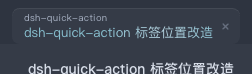
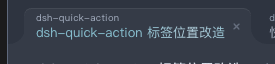
fix: flare active tab edges outward into the session header

diff --git a/lib/client.js b/lib/client.js
@@ -69,7 +69,7 @@ window.__ModuleLoader__.load({
 [data-composer-seat]{transition:opacity .24s ease}
 [data-composer-seat][data-qa-composer=hidden]{opacity:0!important;pointer-events:none!important}
 .qa-strip{box-sizing:border-box;display:flex;align-items:stretch;min-width:0;height:44px;padding:8px 0 0 0;position:relative}
-.qa-list{display:flex;flex:1 1 auto;min-width:0;gap:6px;padding:0 12px;overflow-x:auto;overscroll-behavior-x:contain;scrollbar-width:none}
+.qa-list{display:flex;flex:1 1 auto;min-width:0;gap:6px;padding:0 16px;overflow-x:auto;overscroll-behavior-x:contain;scrollbar-width:none}
 .qa-list::-webkit-scrollbar{display:none}
 .qa-spacer{flex:1;min-width:8px;-webkit-app-region:drag}
 .qa-fade{position:absolute;top:0;bottom:0;width:76px;pointer-events:none;opacity:0;transition:opacity .16s ease-out;z-index:2}
@@ -88,8 +88,17 @@ html[data-qa-hide-header] [data-slot=main] div:has(> header[data-window-drag]):h
 [data-qa-page] header[data-qa-header-surface]{background:var(--qa-surface);transition:background-color .18s ease-out}
 [data-qa-page][data-qa-hero] header[data-window-drag]{display:none!important}
 .qa-tab{box-sizing:border-box;position:relative;display:flex;align-items:stretch;flex:1 1 0;min-width:124px;max-width:260px;height:36px;border-radius:10px;color:var(--dsw-alias-label-secondary);background:transparent;transition:transform .18s cubic-bezier(.2,.8,.2,1),background-color .14s ease-out,border-radius .14s ease-out,color .14s ease-out;z-index:0}
-.qa-tab[data-active=true]{background:var(--qa-surface);box-shadow:inset 0 1px 0 rgba(255,255,255,.07);color:var(--dsw-alias-label-primary);z-index:1}
-.qa-tail{display:none!important}
+.qa-tab[data-active=true]{background:var(--qa-surface);box-shadow:inset 0 1px 0 rgba(255,255,255,.07);color:var(--dsw-alias-label-primary);z-index:1;border-radius:10px 10px 0 0}
+.qa-tail{position:absolute;bottom:0;width:16px;height:16px;pointer-events:none;display:none;z-index:0}
+.qa-tab[data-active=true]:not([data-dragging=true]) .qa-tail{display:block}
+.qa-tail-left{left:-15.5px}
+.qa-tail-right{right:-15.5px}
+.qa-tail svg{display:block;width:16px;height:16px;overflow:visible}
+.qa-tail-fill{fill:var(--qa-surface)}
+.qa-tail-line{display:none}
+[data-qa-page][data-qa-hero] .qa-tab[data-active=true],html[data-qa-hide-header] .qa-tab[data-active=true]{border-radius:10px}
+[data-qa-page][data-qa-hero] .qa-tab-main,html[data-qa-hide-header] .qa-tab-main{border-radius:10px}
+[data-qa-page][data-qa-hero] .qa-tail,html[data-qa-hide-header] .qa-tail{display:none!important}
 .qa-tab::after{display:none!important}
 /* 非当前标签 hover：内缩的圆角浅底，当前标签保持与页头同色 */
 .qa-tab[data-active=false]:not([data-dragging=true])::before{content:"";position:absolute;left:0;right:0;top:4px;bottom:4px;border-radius:9px;background:color-mix(in srgb,var(--dsw-alias-label-primary) 6%,transparent);opacity:0;transition:opacity .14s ease-out;pointer-events:none}
@@ -100,7 +109,7 @@ html[data-qa-hide-header] [data-slot=main] div:has(> header[data-window-drag]):h
 .qa-tab[data-dragging=true]{z-index:3;transition:none!important;background:color-mix(in srgb,var(--dsw-alias-label-primary) 8%,var(--qa-page));box-shadow:0 10px 26px rgba(0,0,0,.45),0 0 0 1px var(--qa-line)}
 .qa-tab[data-dragging=true] .qa-tab-main{cursor:grabbing}
 .qa-tab[data-dragging=true] .qa-close{display:none}
-.qa-tab-main{position:relative;display:flex;flex-direction:row;align-items:center;justify-content:flex-start;flex:1;min-width:0;padding:0 24px 0 12px;border:0;background:none;color:inherit;font:inherit;text-align:left;cursor:pointer;border-radius:10px}
+.qa-tab-main{position:relative;display:flex;flex-direction:row;align-items:center;justify-content:flex-start;flex:1;min-width:0;padding:0 24px 0 12px;border:0;background:none;color:inherit;font:inherit;text-align:left;cursor:pointer;border-radius:10px 10px 0 0}
 .qa-tab-main:focus-visible{outline:2px solid var(--dsw-alias-state-business-primary);outline-offset:-3px}
 @media (prefers-reduced-motion:reduce){.qa-tab{transition:none!important}.qa-title{animation:none!important;background:none!important;-webkit-text-fill-color:currentColor!important;opacity:1!important}.qa-tab[data-state=running] .qa-title,.qa-tab[data-state=loading] .qa-title{color:var(--qa-state)!important}.qa-tab[data-state=answer] .qa-title,.qa-tab[data-state=approval] .qa-title,.qa-tab[data-state=plan] .qa-title{color:var(--qa-text)!important}}
 .qa-sep{display:none}

diff --git a/AGENTS.md b/AGENTS.md
@@ -94,8 +94,8 @@ node tests/controller.test.mjs      # controller 单测，末尾打印 "controll
 - 提示文案不许写死键名（v0.2.18）：标签条 `listEl.title` 由 `hintText(words)` 用当前配置生成（`keyLabel(binding, mac)` 格式化；未绑定的命令整段省略；`⌘1–⌘9` 仅在 tab1/tab9 都存在且修饰键相同才折叠成范围），并订阅 `shortcuts.catalog.subscribe(refreshHint)`，在设置里改键后立即刷新。新增命令时提示片段加到 `hintText` 与 WORDS 的 `hint*` 字段，不要在 `WORDS.hint` 里写键名。
 - 工作区标题注意力入口（v0.2.45）：在 `[data-slot="sidebar.workspaces"]` 里找 `[class*="sectionHeader"]`，把铃铛按钮**绝对定位**挂到 sectionHeader 上、放在 `[class*="searchSlot"]` 左侧（`left = search.left - header.left - 30`，垂直居中）；**不要插进 headerActions**（它的 `max-width:60px` + overflow 会让第三个图标把原有 icon 挤重叠）。sectionHeader 若为 static 则补 `position:relative`；窗口 resize 时 `schedule()` 重新定位；**铃铛常显**（宽侧栏时一直显示，不因 0 待处理而消失）；按钮尺寸 28x28、与 host `.iconButton` 对齐（top 按 `(header.height-28)/2` 计算，垂直中心与搜索图标一致）；有需要处理时右上角显示 6px 红点（`.qa-attn-dot`，`--dsw-alias-state-error-primary`，带 1.5px 深色描边压边；定位 `top:2px; right:0`，是铃铛图形的右上角，不是按钮正上方——`top:4/right:4` 会看起来压在铃铛顶正中）；铃铛位置在搜索图标左侧、不占 headerActions 布局宽度（v0.2.48）；**注入到侧栏的组件不能使用 `.qa-host` 作用域的 `--qa-*` 变量**（不在该子树里，var() 会失效成透明/继承），hover 背景与颜色必须直接用宿主 token：`var(--dsw-alias-interactive-bg-hover)`、`var(--dsw-alias-label-tertiary)`→hover `label-primary`（v0.2.51）。**铃铛直接复用宿主图标按钮的 class**（`className = sampleButton.className + ' qa-attn'`，**每次 refresh 都补一次**：header 图标可能比插件晚挂载，首次创建时 sample 为空，之后必须再对齐，否则颜色停在继承的 tertiary、hover 时像多一层高亮 v0.2.54），只保留绝对定位与红点，颜色/hover/focus 全部由宿主样式决定——自己写 hover 会多出「图标变亮」的高亮（v0.2.53 定稿）。**不要自己加 `:focus-visible` 描边**：点击后按钮残留焦点会多出一圈高亮；鼠标点击后在 handler 里 `blur()`（`event.detail > 0`），保留键盘焦点态（v0.2.52）；**统计范围是全部会话（list.byId），不是仅标签条里的 rows**（避免只在侧栏存在的会话被漏算）；红点固定红色，分类明细放 title tooltip；宽模式（存在 `[class*="sectionLabel"]`）且 total>0 才显示，否则移除；点击 `ctrl.focusAttention()` 跳下一个。标题同时给出分类明细。
 - 保持唤醒（v0.2.35；v0.2.36 改位置）：**DOM 注入**太阳按钮到 `[data-slot="settings.launcher"]`（头像/设置按钮）之后、同一行内（与 `dsh-mobile-plugin` 相同做法，另加 `outlet.closest('[data-slot="sidebar.settings"]')` 校验；行宽 <120 时退回 `sidebar.footer.action` 行）；`ensureAwakeButton()` 在每次 `refresh()` 调用，React 移除后会被 MutationObserver 补回；按钮点击 `wakeToggle`，状态由 `wakeNotify` 同步 `data-on/title/aria-pressed`。快捷键，快捷键 `quick-action.keepAwake`（桌面 ⌘⇧K / Web ⌥⌘⇧K），实现用 **`navigator.wakeLock.request('screen')`**（不写系统配置；DSH 退出/页面隐藏自动释放）。状态：`wake.on`（已拿到 sentinel）/`wake.wanted`（用户希望开）——系统收回时 on=false 但 wanted 保持，`visibilitychange` 回到 visible 时自动重新申请；`pagehide`/dispose 调 `wakeDisable()`；`prefers-reduced-motion` 无关。调试入口 `window.__dshQuickAction.wake()`。**不要再往 flashNotice/其它函数里塞清理代码**（v0.2.35 期间误把 dispose 清理插进了 `flashNotice`/`toggleReadMode`，导致每次提示都把唤醒释放掉；已修）。
-- 标签过多提示（v0.2.42）：`.qa-list` 横向溢出时，`.qa-strip` 上挂 `data-more=right`，显示右侧 76px 渐隐层 `.qa-fade-right`（`linear-gradient(to right, transparent, var(--qa-strip) 72%)`，opacity 过渡），表示右边还有标签；`updateOverflowHint()` 在 render / listEl scroll / ResizeObserver 里更新；v0.2.43 起左右对称：`scrollLeft>1` 显示左渐隐、未到最右显示右渐隐，属性值 `left|right|both`，到两端时对应侧消失。渐隐层 pointer-events:none，不影响标签点击与 spacer 拖拽；**分割线必须画在渐隐层之上**（`.qa-strip::before{z-index:3}`，fade 是 2），否则右侧渐隐会把底部分割线一起吃掉（v0.2.44 修）。
-- 标签外观（v0.4.1 定稿，取代 v0.2.40 的 23px/尾巴/外框）：`.qa-tab` 高 36、`border-radius:10px`（四角都圆）；活动标签背景 `var(--qa-surface)`，页头通过 `[data-qa-header-surface]` 使用同一变量，底部两个圆角贴着标题行、不画线、无外框；非当前标签透明，hover 背景画在 `::before` 上（`left:0;right:0;top:4px;bottom:4px;border-radius:9px`）。`.qa-tail` 和 `.qa-tab::after` 已隐藏，不要恢复。
+- 标签过多提示（v0.2.42）：`.qa-list` 横向溢出时，`.qa-strip` 上挂 `data-more=right`，显示右侧 76px 渐隐层 `.qa-fade-right`（`linear-gradient(to right, transparent, var(--qa-strip) 72%)`，opacity 过渡），表示右边还有标签；`updateOverflowHint()` 在 render / listEl scroll / ResizeObserver 里更新；v0.2.43 起左右对称：`scrollLeft>1` 显示左渐隐、未到最右显示右渐隐，属性值 `left|right|both`，到两端时对应侧消失。渐隐层 pointer-events:none，不影响标签点击与 spacer 拖拽；标签条已不画横线，渐隐层直接铺满标签条高度。
+- 标签外观（v0.4.1 定稿）：`.qa-tab` 高 36、基础 `border-radius:10px`；活动标签覆盖为顶部 10px、底部 0，背景 `var(--qa-surface)`，页头通过 `[data-qa-header-surface]` 使用同一变量；底部用 `.qa-tail` 的 16px **向外翻**圆弧接入页头（`fill:var(--qa-surface)`、不画线、无外框）；首屏/隐藏 header 时活动标签收成四角 10px 卡片、隐藏尾巴。非当前标签透明，hover 背景画在 `::before` 上（`left:0;right:0;top:4px;bottom:4px;border-radius:9px`）。`.qa-tab::after` 隐藏，不要恢复 chip 间竖线。
 - 会话头部隐藏（v0.2.33；v0.2.39 动画）：切换时 240ms 过渡 `height/padding-top/padding-bottom/border-bottom-width/opacity`。要点：① header 是 border-box，只把 height 设 0 会被 padding 夹住（残留 17px），必须同时收 padding 与 border；② 起始态先 `transition:none` 写好并 `void offsetHeight` 强制 reflow，再挂 easing + rAF 改目标值，否则从 display:none 恢复时会跳变；③ minHeight 动画期间置 0；④ 动画结束收起用 `setHeaderInstant(true)`（元素 attr + html 标记，防切会话闪），展开则清空内联样式回到 CSS。
 - 会话头部隐藏（v0.2.33；v0.2.34 防闪+提示自动消失）：切换类提示统一走 `flashNotice(text, 2600ms)`，不要直接写 `noticeEl`（否则会一直挂着）。防闪双保险：① 隐藏状态同步到 `<html data-qa-hide-header>`，CSS 用 `html[data-qa-hide-header] [data-slot=main] div:has(> header[data-window-drag]):has([data-conversation-region=chat]) > header[data-window-drag]{display:none!important}` —— 新挂载的 header 在样式计算时就隐藏，不等 16ms 的 refresh；② MutationObserver 回调里同步 `applyHeaderVisibility()` 再 `schedule()`。历史上仅靠元素属性 + 延迟 refresh，切 session 会闪一下。
 - 会话头部隐藏（v0.2.33 原始实现）：`⌘⇧B`（web `⌥⌘⇧B`）切换 `dsh-quick-action.hideheader`；`conversationHeader()` 用 `[data-conversation-region="chat"]` 的父级找 `header[data-window-drag]`，打 `data-qa-header-hidden`，CSS `header[data-qa-header-hidden]{display:none!important}`；`refresh()` 每次重挂（React 可能重建 header）。`.qa-spacer` 设 `-webkit-app-region:drag`，隐藏 header 后仍可从标签条空白区拖动窗口。注意：会连同会话标题行与视图标签行一起隐藏；若只想藏第二行需另做。
